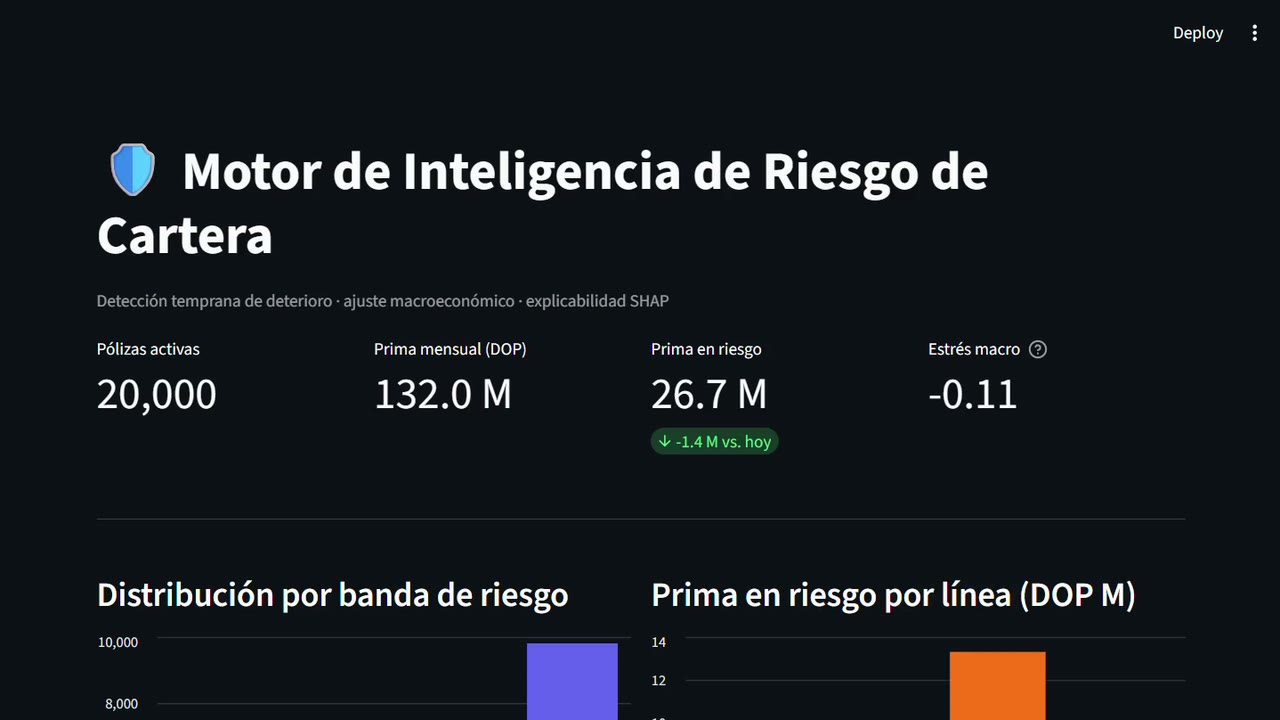
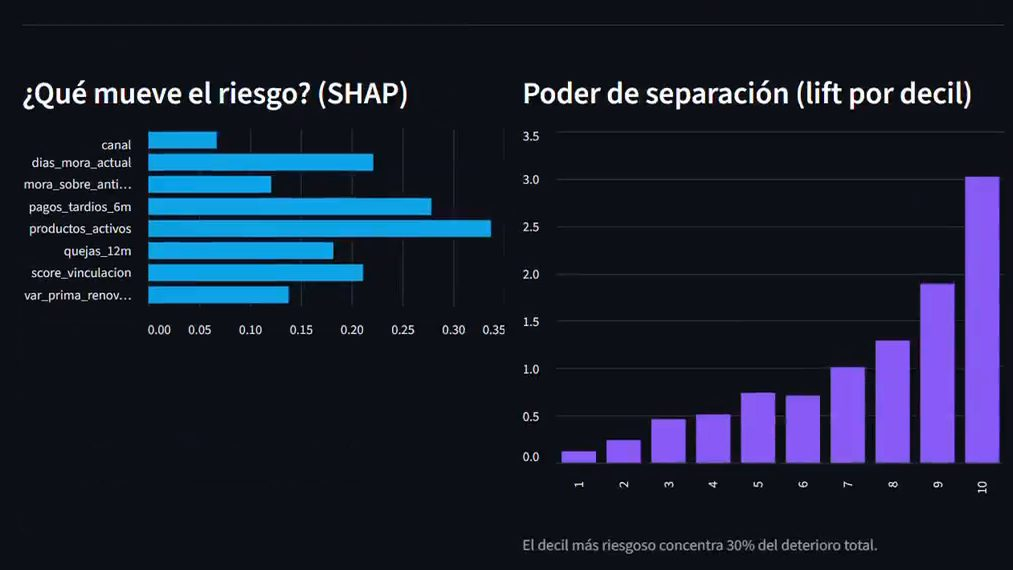
6.2b Revisión: portadas completas (sismos, huracanes, corrupción), nueva portada de Riesgo sin cifras de escenario, tarjeta impar a todo el ancho, cifras 2x2, Pulso legible en celular, títulos h3, Maestría unificada, ordinales y origen en Inflación

diff --git a/index.html b/index.html
@@ -19,6 +19,7 @@
 <link rel="canonical" href="https://braylinjr.github.io/">
 <meta name="twitter:card" content="summary_large_image">
 <meta name="twitter:title" content="Braylin Jiménez · IA y datos para seguros y farmacia">
+<meta name="twitter:description" content="Economista y científico de datos en Santo Domingo. Llevo la IA a producción en seguros y farmacia: 8 modelos en producción, detección de fraude y analítica del sector en República Dominicana.">
 <meta name="twitter:image" content="https://braylinjr.github.io/assets/og.png">
 <script type="application/ld+json">
 { "@context":"https://schema.org", "@type":"Person",
@@ -131,6 +132,7 @@ header>.wrap{position:relative;z-index:1}
 .hero-sub{max-width:690px;margin-top:26px;font-size:clamp(16px,2vw,20px);color:var(--muted);font-weight:400}
 .hero-sub b{color:var(--text);font-weight:600}
 .now{display:inline-flex;align-items:center;gap:10px;margin-top:24px;font-size:13.5px;color:var(--muted);border:1px solid var(--line-soft);border-radius:100px;padding:7px 15px 7px 12px;background:rgba(255,255,255,.03)}
+@media(max-width:680px){.now{border-radius:16px;padding:10px 14px 10px 12px;align-items:flex-start}}
 .now i{width:8px;height:8px;border-radius:50%;background:var(--green);box-shadow:0 0 0 4px rgba(62,229,159,.16);flex-shrink:0}
 .now b{color:var(--text);font-weight:600}
 .cta-row{display:flex;flex-wrap:wrap;gap:12px;margin-top:30px}
@@ -144,6 +146,8 @@ header>.wrap{position:relative;z-index:1}
 .stat:last-child{border-right:none}
 .stat .n{font-family:var(--serif);font-size:clamp(28px,3.6vw,40px);line-height:1;letter-spacing:-.01em}
 .stat .n .u{font-family:var(--mono);font-size:.42em;color:var(--cyan);vertical-align:super;margin-left:2px}
+/* Ordinal "1.º": en la letra del número para que no parezca un signo de grados */
+.stat .n .u.ord{font-family:var(--serif);font-size:1em;color:inherit;vertical-align:baseline;margin-left:0}
 .stat .l{font-family:var(--mono);font-size:11px;letter-spacing:.07em;text-transform:uppercase;color:var(--muted);margin-top:9px}
 @media(max-width:680px){.stat{flex:1 1 42%;border-right:none;padding:22px 18px 18px 0}}
 .stat .cnt{display:inline-block;text-align:right}
@@ -177,6 +181,7 @@ section.pulso{padding:0;display:grid;grid-template-rows:1fr;transition:grid-temp
 @media(max-width:820px){.pulso-grid{grid-template-columns:repeat(2,1fr)}}
 .pk{border:1px solid var(--line-soft);border-radius:14px;padding:14px 15px 12px;background:rgba(7,17,31,.45);min-height:128px;display:flex;flex-direction:column;gap:4px;min-width:0}
 .pk-n{font-family:var(--mono);font-size:10.5px;letter-spacing:.06em;text-transform:uppercase;color:var(--muted);white-space:nowrap;overflow:hidden;text-overflow:ellipsis}
+@media(max-width:820px){.pk-n{white-space:normal;overflow:visible;line-height:1.35}}
 .pk-v{font-family:var(--serif);font-size:clamp(22px,2.6vw,28px);line-height:1.1;display:flex;align-items:baseline;gap:8px}
 .pk-d{font-family:var(--mono);font-size:13px;color:var(--cyan)}
 .pk-p{font-size:12px;color:var(--muted-2);line-height:1.35}
@@ -226,12 +231,21 @@ section{padding:calc(var(--sec-gap)/2) 0;position:relative}
 .card::before{content:"";position:absolute;top:0;left:0;right:0;height:3px;background:var(--sig,var(--cyan));opacity:.9;z-index:3}
 .card:hover{transform:translateY(-4px);border-color:var(--sig,var(--cyan));box-shadow:0 30px 80px -30px rgba(0,0,0,.85)}
 .card.hide{display:none}
+/* Si queda una tarjeta sola en la última fila, ocupa todo el ancho en horizontal */
+@media(min-width:821px){
+  .pgrid>.card.ancha{grid-column:1/-1;flex-direction:row}
+  .pgrid>.card.ancha .card-media{flex:0 0 50%;align-self:stretch;aspect-ratio:auto;min-height:300px}
+  .pgrid>.card.ancha .card-media:focus-visible{border-radius:var(--r) 0 0 var(--r)}
+  .pgrid>.card.ancha .card-body{justify-content:center}
+  .pgrid>.card.ancha .card-foot{margin-top:8px}
+}
 .card-media{position:relative;aspect-ratio:16/9;overflow:hidden;background:#0a1322;cursor:pointer}
 .card-media img,.card-media video{width:100%;height:100%;object-fit:cover;object-position:top;transition:transform .6s;background:#0a1322}
 .card:hover .card-media img,.card:hover .card-media video{transform:scale(1.03)}
-.card-media img.chart-dark{filter:invert(.9) hue-rotate(180deg) saturate(1.15) brightness(.95);object-position:center 30%}
+/* Gráfico claro invertido: completo, sin recortar títulos (el fondo blanco se invierte a oscuro) */
+.card-media img.chart-dark{filter:invert(.9) hue-rotate(180deg) saturate(1.15) brightness(.95);object-fit:contain;background:#fff}
 .card-media.split{display:grid;grid-template-columns:1fr 1fr;gap:2px;background:#0d1b2a}
-.card-media.split img{object-position:center 62%}
+.card-media.split img{object-fit:contain;background:#0d1b2a}
 .card-media .art{position:absolute;inset:0;display:grid;place-items:center;padding-bottom:40px}
 .card-media .art svg{width:66%}
 .play{position:absolute;inset:0;display:grid;place-items:center;background:radial-gradient(circle at center,rgba(7,17,31,.12),rgba(7,17,31,.55));transition:background .3s}
@@ -253,6 +267,9 @@ section{padding:calc(var(--sec-gap)/2) 0;position:relative}
 .card .pitch{font-size:14.5px;color:#c3d0e4;line-height:1.55}
 .kpis{display:flex;flex-wrap:wrap;gap:0;margin-top:4px;border-top:1px solid var(--line-soft)}
 .kpi{padding:13px 16px 4px 0;margin-right:16px}
+/* Con 4 cifras: 2 × 2 para que ninguna quede sola */
+.kpis:has(>.kpi:nth-child(4)){display:grid;grid-template-columns:auto auto;justify-content:start;column-gap:36px}
+.kpis:has(>.kpi:nth-child(4)) .kpi{margin-right:0}
 @media(max-width:560px){
   .kpis{display:grid;grid-template-columns:1fr 1fr;column-gap:12px}
   .kpi{margin-right:0;padding-right:0}
@@ -280,7 +297,7 @@ section{padding:calc(var(--sec-gap)/2) 0;position:relative}
 .mgrid{display:grid;grid-template-columns:repeat(auto-fit,minmax(280px,1fr));gap:14px}
 .mini{border:1px solid var(--line-soft);border-radius:16px;padding:18px 18px 16px;background:rgba(255,255,255,.03);position:relative;overflow:hidden;transition:border-color .3s,transform .3s;display:flex;flex-direction:column;gap:8px}
 .mini::after{content:"";position:absolute;left:0;top:0;bottom:0;width:3px;background:var(--ac)}
-.mini:hover{border-color:var(--ac);transform:translateY(-2px)}
+button.mini:hover{border-color:var(--ac);transform:translateY(-2px)}
 .mini .mt{font-family:var(--serif);font-size:18px;font-weight:500;line-height:1.2}
 .mini p{font-size:13px;color:var(--muted);line-height:1.5}
 .mini .mm{margin-top:auto;padding-top:6px;font-family:var(--mono);font-size:11px;letter-spacing:.03em;color:var(--ac)}
@@ -312,8 +329,8 @@ button.mini{font:inherit;color:inherit;text-align:left;cursor:pointer;width:100%
   .card,.talk,.mini{--mx:50%;--my:50%}
   .card::after,.talk::before,.mini::before{content:"";position:absolute;inset:0;border-radius:inherit;pointer-events:none;opacity:0;z-index:2;transition:opacity .3s;
     background:radial-gradient(420px circle at var(--mx) var(--my),color-mix(in srgb,var(--sig,var(--cyan)) 16%,transparent),transparent 60%)}
-  .card:hover::after,.talk:hover::before,.mini:hover::before{opacity:1}
-  .talk:hover,.mini:hover{transform:translateY(-4px);border-color:var(--sig)}
+  .card:hover::after,.talk:hover::before,button.mini:hover::before{opacity:1}
+  .talk:hover,button.mini:hover{transform:translateY(-4px);border-color:var(--sig)}
 }
 
 /* ---------- DOCENCIA ---------- */
@@ -325,8 +342,8 @@ button.mini{font:inherit;color:inherit;text-align:left;cursor:pointer;width:100%
 .teach .t-k{font-family:var(--serif);font-size:clamp(56px,7vw,84px);line-height:1;letter-spacing:-.02em;margin-bottom:auto;padding-bottom:22px}
 .teach .t-k span{font-family:var(--mono);font-size:.32em;color:var(--cyan);vertical-align:super}
 .teach .t-meta{font-family:var(--mono);font-size:10.5px;letter-spacing:.1em;color:var(--cyan)}
-.teach h4{font-family:var(--serif);font-size:20px;font-weight:500;margin:6px 0 6px;line-height:1.2}
-.teach.main h4{font-size:clamp(24px,3vw,30px)}
+.teach h3{font-family:var(--serif);font-size:20px;font-weight:500;margin:6px 0 6px;line-height:1.2}
+.teach.main h3{font-size:clamp(24px,3vw,30px)}
 .teach p{font-size:13.5px;color:var(--muted);line-height:1.55}
 .teach.main p{font-size:14.5px;color:#c3d0e4}
 
@@ -354,7 +371,7 @@ button.mini{font:inherit;color:inherit;text-align:left;cursor:pointer;width:100%
 .tnode.cur::before{background:var(--cyan);box-shadow:0 0 0 4px rgba(66,232,255,.18)}
 .tnode .date{font-family:var(--mono);font-size:11.5px;letter-spacing:.06em;color:var(--cyan)}
 .tnode .date small{color:var(--muted-2);margin-left:8px;font-size:11px}
-.tnode h4{font-family:var(--serif);font-size:21px;font-weight:500;margin:5px 0 2px}
+.tnode h3{font-family:var(--serif);font-size:21px;font-weight:500;margin:5px 0 2px}
 .tnode .org{font-size:14px;color:var(--text);font-weight:600}
 .tnode .desc{font-size:14px;color:#c3d0e4;margin-top:8px;max-width:760px;line-height:1.55}
 .tnode ul{list-style:none;margin-top:10px;display:flex;flex-direction:column;gap:6px;max-width:760px}
@@ -370,7 +387,7 @@ button.mini{font:inherit;color:inherit;text-align:left;cursor:pointer;width:100%
 .edu:hover{transform:translateY(-3px);border-color:var(--blue)}
 .edu .d{font-family:var(--mono);font-size:11px;color:var(--cyan);letter-spacing:.05em}
 .edu .badge{display:inline-block;font-family:var(--mono);font-size:9.5px;letter-spacing:.08em;text-transform:uppercase;color:var(--green);border:1px solid rgba(62,229,159,.4);border-radius:6px;padding:3px 7px;margin-bottom:10px}
-.edu h5{font-family:var(--serif);font-size:17px;font-weight:500;margin:8px 0 6px;line-height:1.2}
+.edu h3{font-family:var(--serif);font-size:17px;font-weight:500;margin:8px 0 6px;line-height:1.2}
 .edu span{font-size:12.5px;color:var(--muted)}
 
 /* ---------- STACK ---------- */
@@ -509,7 +526,7 @@ footer{border-top:1px solid var(--line-soft);padding:28px 0;color:var(--muted-2)
       <div class="stat"><div class="n"><span class="cnt" data-to="3">3</span><span class="u">x</span></div><div class="l">Más aciertos que la segmentación tradicional</div></div>
       <div class="stat"><div class="n"><span class="cnt" data-to="1257">1,257</span><span class="u">h</span></div><div class="l">Ahorro operativo al año</div></div>
       <div class="stat"><div class="n"><span class="cnt" data-to="70">70</span><span class="u">+</span></div><div class="l">Colaboradores formados</div></div>
-      <div class="stat"><div class="n">1<span class="u">.º</span></div><div class="l">Datathon Humano 2025 · Business Intelligence</div></div>
+      <div class="stat"><div class="n">1<span class="u ord">.º</span></div><div class="l">Datathon Humano 2025 · Business Intelligence</div></div>
     </div>
     <p class="stats-note rev">Resultados en Humano Seguros, 2025–2026.</p>
   </div>
@@ -646,7 +663,7 @@ footer{border-top:1px solid var(--line-soft);padding:28px 0;color:var(--muted-2)
       <!-- RIESGO CARTERA -->
       <article class="card rev" data-areas="seguros economia" style="--sig:var(--blue)">
         <div class="card-media" data-open="riesgocartera" role="button" tabindex="0" aria-label="Ver caso: Motor de Inteligencia de Riesgo de Cartera">
-          <img width="1280" height="720" src="assets/riesgo-cartera.jpg" alt="Motor de Inteligencia de Riesgo de Cartera" loading="lazy">
+          <img width="1013" height="570" src="assets/riesgo-cartera.jpg" alt="Motor de Riesgo de Cartera: variables que mueven el riesgo (SHAP) y poder de separación por decil" loading="lazy">
           <div class="play"><span><svg viewBox="0 0 24 24"><path d="M8 5v14l11-7z"/></svg></span></div>
           <div class="media-tag">STREAMLIT · SHAP · ESCENARIO MACRO</div>
         </div>
@@ -698,13 +715,13 @@ footer{border-top:1px solid var(--line-soft);padding:28px 0;color:var(--muted-2)
       <article class="card rev" data-areas="farmacia economia" style="--sig:var(--gold)">
         <div class="card-media" data-open="corrupcion" role="button" tabindex="0" aria-label="Ver caso: ¿La corrupción mata? Los datos dicen que sí.">
           <img width="1280" height="768" class="chart-dark" src="assets/corrupcion-1.png" alt="Gráfico: años de vida robados por la corrupción, República Dominicana encabeza la lista" loading="lazy">
-          <div class="play"><span><svg class="ext" viewBox="0 0 24 24"><path d="M15 3h6v6M21 3l-9 9M10 5H5a2 2 0 0 0-2 2v12a2 2 0 0 0 2 2h12a2 2 0 0 0 2-2v-5"/></svg></span></div>
+          <div class="play"><span><svg class="ext" viewBox="0 0 24 24"><circle cx="11" cy="11" r="6"/><path d="M20 20l-4.5-4.5M11 8v6M8 11h6"/></svg></span></div>
           <div class="media-tag">INVESTIGACIÓN · PYTHON (OLS)</div>
         </div>
         <div class="card-body">
           <div class="tags"><span class="tag ec">Economía</span><span class="tag sa">Salud</span><span class="tag ri">Riesgo</span><span class="origin" title="Origen de los datos: V-Dem y Banco Mundial"><svg viewBox="0 0 24 24" aria-hidden="true"><ellipse cx="12" cy="6" rx="7" ry="3"/><path d="M5 6v12c0 1.7 3.1 3 7 3s7-1.3 7-3V6M5 12c0 1.7 3.1 3 7 3s7-1.3 7-3"/></svg>Datos públicos</span></div>
           <h3>¿La corrupción mata? Los datos dicen que sí.</h3>
-          <p class="pitch">Investigación del Máster en Gestión de Sistemas de Salud (PUCMM). Pone a prueba la premisa "a mayor PIB, mejor salud" y encuentra que invertir no basta si el sistema tiene fugas: la integridad institucional es infraestructura vital.</p>
+          <p class="pitch">Investigación de la Maestría en Gestión de Sistemas y Servicios de Salud (PUCMM). Pone a prueba la premisa "a mayor PIB, mejor salud" y encuentra que invertir no basta si el sistema tiene fugas: la integridad institucional es infraestructura vital.</p>
           <div class="kpis">
             <div class="kpi"><div class="k">7.82</div><div class="kl">Años de vida "robados"</div></div>
             <div class="kpi"><div class="k">10,069</div><div class="kl">Muertes anuales evitables</div></div>
@@ -752,7 +769,7 @@ footer{border-top:1px solid var(--line-soft);padding:28px 0;color:var(--muted-2)
       <div class="mgrid">
         <button type="button" class="mini vi mini-open" data-open="churn"><span class="mt">Churn para mipymes</span><span class="mp">Dashboard de abandono de clientes con un conjunto de datos de ejemplo (IBM Telco).</span><span class="origin"><svg viewBox="0 0 24 24" aria-hidden="true"><ellipse cx="12" cy="6" rx="7" ry="3"/><path d="M5 6v12c0 1.7 3.1 3 7 3s7-1.3 7-3V6M5 12c0 1.7 3.1 3 7 3s7-1.3 7-3"/></svg>Datos de ejemplo (IBM Telco)</span><span class="mm">Jun 2026 · R + SQL + Power BI · Ver caso →</span></button>
         <div class="mini sa"><div class="mt">Centinela — Readmisiones hospitalarias</div><p>Prioriza pacientes por riesgo de reingreso a menos de 30 días, con el porqué de cada caso y un simulador para puntuar pacientes nuevos.</p><div class="mm">69K+ pacientes · 130 hospitales · top 10% capta ~1 de 4 reingresos</div></div>
-        <div class="mini ec"><div class="mt">Inflación en salud, RD 2010–2026</div><p>Con series oficiales del BCRD: en 16 años los costos de salud no bajaron un solo mes y crecieron más que la inflación general.</p><div class="mm">IPC Salud +109% vs. IPC General +98%</div></div>
+        <div class="mini ec"><div class="mt">Inflación en salud, RD 2010–2026</div><p>Con series oficiales del BCRD: en 16 años los costos de salud no bajaron un solo mes y crecieron más que la inflación general.</p><span class="origin"><svg viewBox="0 0 24 24" aria-hidden="true"><ellipse cx="12" cy="6" rx="7" ry="3"/><path d="M5 6v12c0 1.7 3.1 3 7 3s7-1.3 7-3V6M5 12c0 1.7 3.1 3 7 3s7-1.3 7-3"/></svg>Datos públicos (BCRD)</span><div class="mm">IPC Salud +109% vs. IPC General +98%</div></div>
       </div>
     </div>
   </div>
@@ -818,17 +835,17 @@ footer{border-top:1px solid var(--line-soft);padding:28px 0;color:var(--muted-2)
       <div class="teach main">
         <div class="t-k">70<span>+</span></div>
         <div class="t-meta">2026 · HUMANO SEGUROS Y ARS PRIMERA</div>
-        <h4>Escuela de Ciencia de Datos</h4>
+        <h3>Escuela de Ciencia de Datos</h3>
         <p>Lidero el programa interno de formación para colaboradores de distintas áreas, muchos sin experiencia previa programando: fundamentos de Python, exploración de datos antes de modelar y modelos supervisados (regresión, clasificación, métricas y cómo evitar el sobreajuste).</p>
       </div>
       <div class="teach">
         <div class="t-meta">2026 · GRUPO HUMANO</div>
-        <h4>Líder de ruta · Datathon Humano 2026</h4>
+        <h3>Líder de ruta · Datathon Humano 2026</h3>
         <p>Dirección de equipos en la ruta de Data Science, con desafíos de analítica avanzada aplicada al sector asegurador.</p>
       </div>
       <div class="teach">
         <div class="t-meta">2026 · CO-FUNDADOR</div>
-        <h4>Zephymetrics Consulting</h4>
+        <h3>Zephymetrics Consulting</h3>
         <p>Cursos en vivo para profesionales y estudiantes: R para análisis de datos y SQL para análisis de datos, con datos del contexto dominicano y proyecto final aplicado.</p>
       </div>    </div>
   </div>
@@ -851,8 +868,8 @@ footer{border-top:1px solid var(--line-soft);padding:28px 0;color:var(--muted-2)
         <p>Reconocimiento por liderar la Ruta de Ciencia de Datos de la Escuela de Datos 2026, el programa interno de formación en análisis y ciencia de datos para colaboradores de Humano Seguros y ARS Primera. Diseñé el contenido e impartí las sesiones, desde los fundamentos de Python hasta modelos supervisados.</p>      </div>
       <div class="award">
         <div class="award-top">
-          <span class="medal">★ 2º LUGAR GENERAL</span>
-          <span class="medal">★ 1er LUGAR · BUSINESS INTELLIGENCE</span>
+          <span class="medal">★ 2.º LUGAR GENERAL</span>
+          <span class="medal">★ 1.er LUGAR · BUSINESS INTELLIGENCE</span>
         </div>
         <h3>Datathon Humano 2025</h3>
         <div class="award-meta">GRUPO HUMANO · 2025</div>
@@ -872,7 +889,7 @@ footer{border-top:1px solid var(--line-soft);padding:28px 0;color:var(--muted-2)
     <div class="tl rev">
       <div class="tnode cur">
         <div class="date">ABR 2025 — PRESENTE</div>
-        <h4>Coordinador de Inteligencia de Clientes</h4>
+        <h3>Coordinador de Inteligencia de Clientes</h3>
         <div class="org">Humano Seguros (Grupo Humano) · Distrito Nacional</div>
         <div class="desc">Lidero la estrategia de datos para optimizar la decisión ejecutiva y la retención en el sector asegurador.</div>
         <ul>
@@ -885,7 +902,7 @@ footer{border-top:1px solid var(--line-soft);padding:28px 0;color:var(--muted-2)
       </div>
       <div class="tnode">
         <div class="date">MAY 2024 — ABR 2025</div>
-        <h4>Técnico de Datos Estadísticos</h4>
+        <h3>Técnico de Datos Estadísticos</h3>
         <div class="org">Sistema Único de Beneficiarios (SIUBEN)</div>
         <div class="desc">Análisis de Big Data poblacional con modelos de regresión y estadística inferencial para orientar la estrategia de política pública.</div>
         <ul>
@@ -896,7 +913,7 @@ footer{border-top:1px solid var(--line-soft);padding:28px 0;color:var(--muted-2)
       </div>
       <div class="tnode">
         <div class="date">OCT 2022 — ABR 2024</div>
-        <h4>Gestor de Cobros</h4>
+        <h3>Gestor de Cobros</h3>
         <div class="org">Red Nacional de Cobros de Impagados</div>
         <div class="desc">Recuperación de cartera de alto volumen con estrategias de negociación basadas en datos.</div>
         <ul>
@@ -906,7 +923,7 @@ footer{border-top:1px solid var(--line-soft);padding:28px 0;color:var(--muted-2)
       </div>
       <div class="tnode">
         <div class="date">NOV 2021 — OCT 2022</div>
-        <h4>Encargado de Cuentas por Cobrar</h4>
+        <h3>Encargado de Cuentas por Cobrar</h3>
         <div class="org">SaluDom</div>
         <div class="desc">Análisis financiero y control de ingresos para optimizar la liquidez de la empresa.</div>
         <ul>
@@ -929,33 +946,33 @@ footer{border-top:1px solid var(--line-soft);padding:28px 0;color:var(--muted-2)
       <div class="edu">
         <span class="badge">En curso</span>
         <div class="d">2026 — 2027</div>
-        <h5>Máster en Gestión de Sistemas y Servicios de Salud</h5>
+        <h3>Maestría en Gestión de Sistemas y Servicios de Salud</h3>
         <span>Pontificia Universidad Católica Madre y Maestra (PUCMM)</span>
       </div>
       <div class="edu">
         <span class="badge">En curso</span>
         <div class="d">2026</div>
-        <h5>Programa Especializado en Gestión de Seguros</h5>
+        <h3>Programa Especializado en Gestión de Seguros</h3>
         <span>Universidad Iberoamericana (UNIBE)</span>
       </div>
       <div class="edu">
         <div class="d">2026</div>
-        <h5>Diploma en Innovación y Gestión de Proyectos</h5>
+        <h3>Diploma en Innovación y Gestión de Proyectos</h3>
         <span>ENEB / Universidad Isabel I</span>
       </div>
       <div class="edu">
         <div class="d">2025 — 2026</div>
-        <h5>Máster en Big Data &amp; Business Intelligence</h5>
+        <h3>Máster en Big Data &amp; Business Intelligence</h3>
         <span>ENEB / Universidad Isabel I</span>
       </div>
       <div class="edu">
         <div class="d">2019 — 2025</div>
-        <h5>Licenciatura en Economía</h5>
+        <h3>Licenciatura en Economía</h3>
         <span>Universidad Autónoma de Santo Domingo (UASD)</span>
       </div>
       <div class="edu">
         <div class="d">2017 — 2019</div>
-        <h5>Técnico en Contabilidad y Finanzas</h5>
+        <h3>Técnico en Contabilidad y Finanzas</h3>
         <span>Politécnico General Belisario Peguero Guerrero</span>
       </div>
     </div>
@@ -1254,7 +1271,7 @@ footer{border-top:1px solid var(--line-soft);padding:28px 0;color:var(--muted-2)
   "title":"¿La corrupción mata? Los datos dicen que sí.",
   "tags":[["ec","Economía"],["sa","Salud"],["ri","Riesgo"]],
   "origen":{"label": "Datos públicos", "base": "V-Dem y Banco Mundial"},
-  "lead":"Como parte del Máster en Gestión de Sistemas de Salud (PUCMM), inicié una investigación para validar una premisa básica: \"a mayor PIB, mejores resultados en salud\". Al cruzar crecimiento económico y mortalidad cardiovascular en República Dominicana, los datos mostraban inconsistencias. La respuesta estaba en lo que pasa cuando la corrupción bloquea esa inversión.",
+  "lead":"Como parte de la Maestría en Gestión de Sistemas y Servicios de Salud (PUCMM), inicié una investigación para validar una premisa básica: \"a mayor PIB, mejores resultados en salud\". Al cruzar crecimiento económico y mortalidad cardiovascular en República Dominicana, los datos mostraban inconsistencias. La respuesta estaba en lo que pasa cuando la corrupción bloquea esa inversión.",
   "gallery":[
     {"img":"assets/corrupcion-1.png","w":1280,"h":768,"cap":"Años de vida \"robados\" por la corrupción — RD encabeza la lista (-7.8 años)."},
     {"img":"assets/corrupcion-2.png","w":1280,"h":768,"cap":"Vidas perdidas anualmente por corrupción (mortalidad cardiovascular)."},
@@ -1440,10 +1457,18 @@ const cards=document.querySelectorAll('.card');
 const count=f=>[...cards].filter(c=>f==='all'||c.dataset.areas.split(' ').includes(f)).length;
 chips.forEach(c=>{c.querySelector('.n').textContent=count(c.dataset.f)});
 cards.forEach((c,i)=>{c.style.viewTransitionName='caso-'+i});
+// Si el número de tarjetas visibles es impar (o queda una sola), la última se muestra a todo el ancho
+function marcarAncha(){
+  const vis=[...cards].filter(c=>!c.classList.contains('hide'));
+  cards.forEach(c=>c.classList.remove('ancha'));
+  if(vis.length%2)vis[vis.length-1].classList.add('ancha');
+}
+marcarAncha();
 function applyFilter(f,guardar=true){
   const run=()=>{
     chips.forEach(c=>{const on=c.dataset.f===f;c.classList.toggle('active',on);c.setAttribute('aria-pressed',on)});
     cards.forEach(card=>card.classList.toggle('hide',!(f==='all'||card.dataset.areas.split(' ').includes(f))));
+    marcarAncha();
   };
   if(guardar&&document.startViewTransition&&!reduceMotion()){
     // Un clic rápido salta la transición anterior: se ignora el aviso para no ensuciar la consola
@@ -1488,7 +1513,7 @@ function buildModal(key){
     html+=`<div class="m-gallery ${d.galleryCols===1?'':'g2'}">`+d.gallery.map(g=>`<figure><img loading="lazy" src="${g.img}" ${g.w?`width="${g.w}" height="${g.h}"`:''} alt=""><figcaption>${g.cap}</figcaption></figure>`).join('')+`</div>`;
   }
   d.sections.forEach(s=>{html+=`<h4>${s.h}</h4><ul>`+s.items.map(it=>`<li>${it}</li>`).join('')+`</ul>`;});
-  if(d.sintetico) html+=`<div class="m-note">Los datos son sintéticos y replican un problema real de seguros. Ninguna cifra viene de una empresa.</div>`;
+  if(d.sintetico) html+=`<div class="m-note">Los datos son sintéticos y replican un problema real de seguros y farmacia. Ninguna cifra viene de una empresa.</div>`;
   if(d.note) html+=`<div class="m-note">${d.note}</div>`;
   html+=`<h4>Herramientas</h4><p>${d.stack}</p>`;
   if(d.src) html+=`<div class="m-src">${d.src}</div>`;
